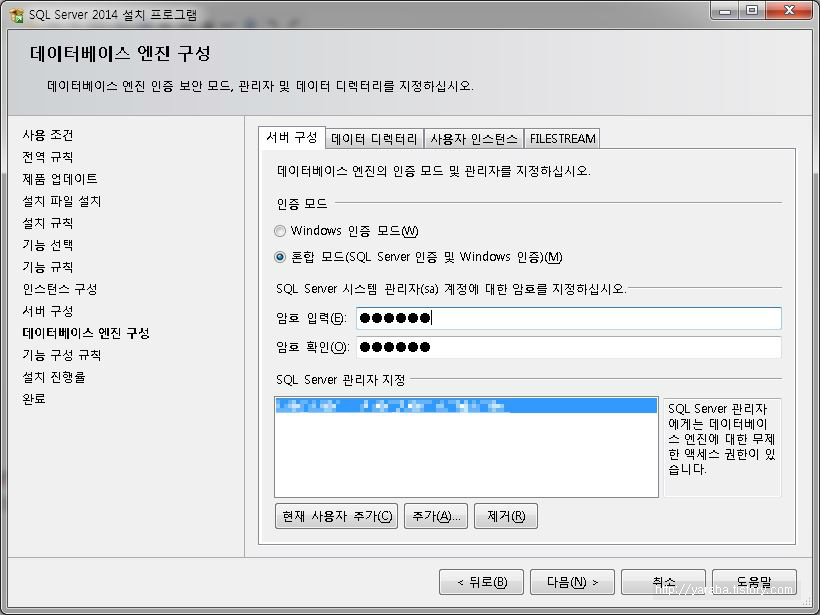
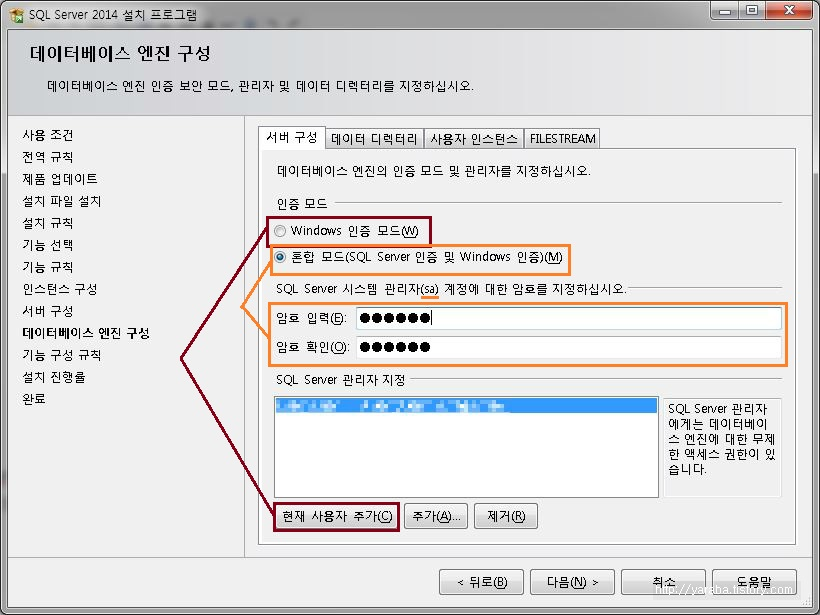
modify some text and add outro page

diff --git a/SQLServer/install.html b/SQLServer/install.html
@@ -30,19 +30,24 @@
     </li>
     <li>
       기능 선택<br />
-      <img src="./img/3_install.jpeg" alt="" class="img-large m-l-xs" />
+      <img src="./img/3_install.jpeg" alt="" class="img-large m-l-xs" /><br />
+      &nbsp;&nbsp;※ 데이터베이스 엔진만 선택하면 좀 더 빨리 설치된다.<br /><br />
     </li>
     <li>
       인스턴스 구성<br />
-      <img src="./img/4_install.jpeg" alt="" class="img-large m-l-xs" />
+      <img src="./img/4_install.jpeg" alt="" class="img-large m-l-xs" /><br />
+      &nbsp;&nbsp;※ 기본 인스턴스는 SQL SERVER 로 설치되고, 명명된 인스턴스는 직접 인스턴스명을 입력할 수 있다.<br /><br />
     </li>
     <li>
       서버 구성 -> 서비스 계정<br />
-      <img src="./img/5_install.jpeg" alt="" class="img-large m-l-xs" />
+      <img src="./img/5_install.jpeg" alt="" class="img-large m-l-xs" /><br />
+      &nbsp;&nbsp;※ 계정 이름은 service 에서 SQL Server 를 실행할 계정이고, 시작 유형은 윈도우 부팅 후 service 를 자동으로 실행하는지 유무이다.<br /><br />
     </li>
     <li>
       서버 구성 -> 인증 모드<br />
-      <img src="./img/6_install.jpeg" alt="" class="img-large m-l-xs" />
+      <img src="./img/6_install.jpeg" alt="" class="img-large m-l-xs" /><br />
+      &nbsp;&nbsp;※ 윈도우 인증 모드를 선택하면 반드시 현재 사용자를 추가해야한다.<br />
+      &nbsp;&nbsp;※ 최신 SQL Server 는 혼합 모드 사용 시, sa 계정으로 접근할 수 없다.<br /><br />
     </li>
     <li>
       SSMS (SQL Server Management Studio) 설치<br />

diff --git a/outro.html b/outro.html
@@ -12,9 +12,9 @@
   <h1>인사말</h1>
 
   <p>
-    부족한 강의 들어주셔서 감사합니다.<br />
     저는 전문 강사가 아니라서 잘 설명하지 못하는 부분이 많았을 것입니다.<br />
-    하지만 이 강의를 계기로 데이터베이스에 관심이 생겼으면 좋겠습니다.<br />
+    데이터베이스는 이것이 다가 아닙니다. HA 구성이나, 미러링 등 아직도 공부해야될 것이 많습니다.<br />
+    이 강의를 계기로 데이터베이스에 관심이 생겼으면 좋겠습니다.<br />
     끝으로 여러분에게 물어볼 것이 있습니다.
   </p>
 
@@ -24,7 +24,7 @@
   <h3>4000만원의 연봉을 받을려면 어떤 스킬/업무능력 등등을 보유하고 있어야 된다고 생각하십니까?</h3>
 
   <br /><br />
-  <h1>감사합니다.</h1>
+  <h1>부족한 강의 들어주셔서 감사합니다.</h1>
   
   <br />
   <hr />

diff --git a/index.html b/index.html
@@ -10,8 +10,8 @@
   <h1>Index Page</h1>
 
   <div style="color: firebrick;">
-    본 문서는 그동안 제가 알게된 내용을 정리한 것입니다.<br />
-    이 페이지 소스는 <a href="https://github.com/insung/DB-lecture" target="_blank">github</a> 에서 다운로드 받을 수 있습니다.
+    이 페이지 소스는 <a href="https://github.com/insung/DB-lecture" target="_blank">github</a> 에서 다운로드 받을 수 있습니다.<br />
+    본 문서는 그동안 제가 알게된 내용을 정리한 것입니다. 혹시 내용 중에 이상이 있거나 잘못된 것이 있다면 github issue 나 git pull request 요청해 주세요.
   </div>
 
   <h1>목차</h1>

diff --git a/ShadowCube/2_sc_sqlserver_filegroup.html b/ShadowCube/2_sc_sqlserver_filegroup.html
@@ -28,7 +28,7 @@
           그 외 나머지 파일그룹은 데이터의 성격별로 구분한 것이다.
         </li>
         <li>
-          여기서 파일그룹명 prefix 문자열인 shadowcube6 는 정책센터 최초 설치 시, 관리자가 직접 입력한 데이터베이스명을 따라 생성된다.
+          여기서 파일그룹명 prefix 문자열인 shadowcube6 는 정책센터 최초 설치 시, 관리자가 직접 입력한 데이터베이스명을 따라 생성된다.<br /><br />
         </li>
       </ul>
     </li>

diff --git a/Tunning/1_intro.html b/Tunning/1_intro.html
@@ -20,7 +20,7 @@
       데이터베이스 튜닝을 통해 데이터베이스 어플리케이션이 높은 작업 처리량과 짧은 응답시간을 갖도록 하는 것이 중요하다.
     </li>
     <li>
-      원하는 데이터를 얼마나 정확하고, 얼마나 효율적으로 찾는 작업이다.
+      원하는 데이터를 얼마나 정확하고, 얼마나 효율적으로 찾을 수 있는지 튜닝하는 작업이다.
     </li>
   </ul>
 

diff --git a/SQLServer/mail.html b/SQLServer/mail.html
@@ -82,7 +82,7 @@
     <h3>Let's Prcactice</h3>
     <ol>
       <li>
-        자신의 시스템에 SMTP 서버가 설치되어있지 않다면, 설치 해보자.
+        자신의 시스템에 SMTP 서버가 설치되어있지 않다면, 설치 해보자. (단, Windows Server 에서만 설치 가능하다.)
       </li>
     </ol>
   </div>

diff --git a/SQLServer/offline.html b/SQLServer/offline.html
@@ -32,6 +32,15 @@
     </li>
   </ul>
 
+  <div class="practice">
+    <h3>Let's Prcactice</h3>
+    <ol>
+      <li>
+        데이터베이스 오프라인 / 온라인은 왜 만들어졌을까 생각해 보자.
+      </li>
+    </ol>
+  </div>
+
   <br /><br />
   <hr />
   <a href="../index.html">처음으로</a>&nbsp;&nbsp;

diff --git a/PostgreSQL/11_pg_ctl.html b/PostgreSQL/11_pg_ctl.html
@@ -20,7 +20,7 @@
     </li>
   </ul>
 
-  <h2>pg_ctl 명령어</h2>
+  <h2>pg_ctl 로 신규 데이터베이스 추가</h2>
 
   <ol>
     <li>
